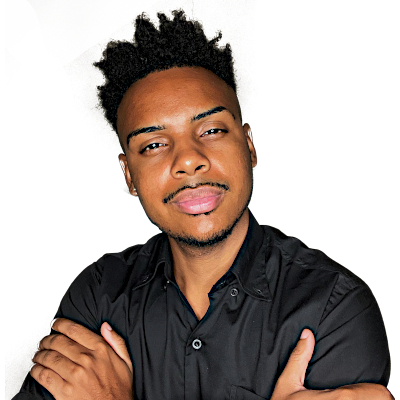
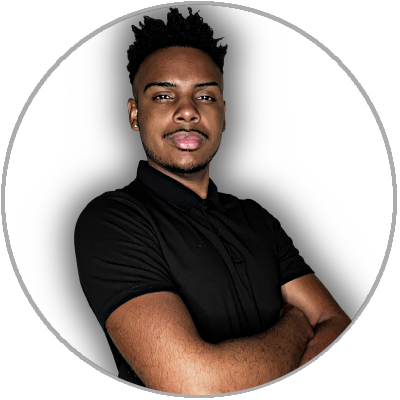
chore(images): fixing footer image

diff --git a/src/components/Footer/index.tsx b/src/components/Footer/index.tsx
@@ -4,20 +4,20 @@ import { Button } from "../Button";
 import clsx from "clsx";
 
 export function Footer() {
-  const commonClasses = "rounded-full p-2 opacity-50 text-sm bg-white/5 "
+  const commonClasses = "rounded-full p-2 opacity-50 text-sm bg-white/5 ";
   return (
     <footer className="flex flex-col items-center justify-center mt-10 ">
       <Image
         src="/images/tiago-photo-footer.png"
         alt="profile"
-        width={90}
-        height={30}
+        width={200}
+        height={200}
         priority
-        className="w-auto h-auto"
+        className="w-60 h-auto opacity-70  brightness-70"
       />
       <Heading as="h1" text="Tiago Santos" />
       <ul className="flex gap-2 text-xl">
-        <li className={clsx(commonClasses, 'min-w-21')}>Front-end</li>
+        <li className={clsx(commonClasses, "min-w-21")}>Front-end</li>
         <li className={commonClasses}>UX/UI</li>
         <li className={commonClasses}>Proativo</li>
         <li className={commonClasses}> Profissional</li>

diff --git a/src/app/layout.tsx b/src/app/layout.tsx
@@ -2,14 +2,11 @@ import type { Metadata } from "next";
 import { Inter } from "next/font/google";
 import "./globals.css";
 
-
 const inter = Inter({
   subsets: ["latin"],
   weight: ["300", "400", "700"],
-  variable: "--font-inter"
+  variable: "--font-inter",
 });
-
-
 
 export const metadata: Metadata = {
   title: "Tiago Santos",
@@ -21,12 +18,8 @@ export default function RootLayout({
   children: React.ReactNode;
 }>) {
   return (
-    <html lang="en">
-      <body
-        className={`${inter.variable}`}
-      >
-        {children}
-      </body>
+    <html lang="en" data-scroll-behavior="smooth">
+      <body className={`${inter.variable}`}>{children}</body>
     </html>
   );
 }

diff --git a/src/components/FormResend/index.tsx b/src/components/FormResend/index.tsx
@@ -60,7 +60,6 @@ export function FormResend({ onClose }: FormResendProps) {
   return (
     <div className="flex justify-center mt-18 w-full">
       <form
-      
         onSubmit={handleSubmit}
         className={clsx(
           "flex flex-col justify-center",
@@ -133,7 +132,7 @@ export function FormResend({ onClose }: FormResendProps) {
             type="button"
             className={commonButtonClasses}
           >
-            Voltar
+            Cancelar
           </button>
           <button className={commonButtonClasses}>Enviar</button>
         </div>
